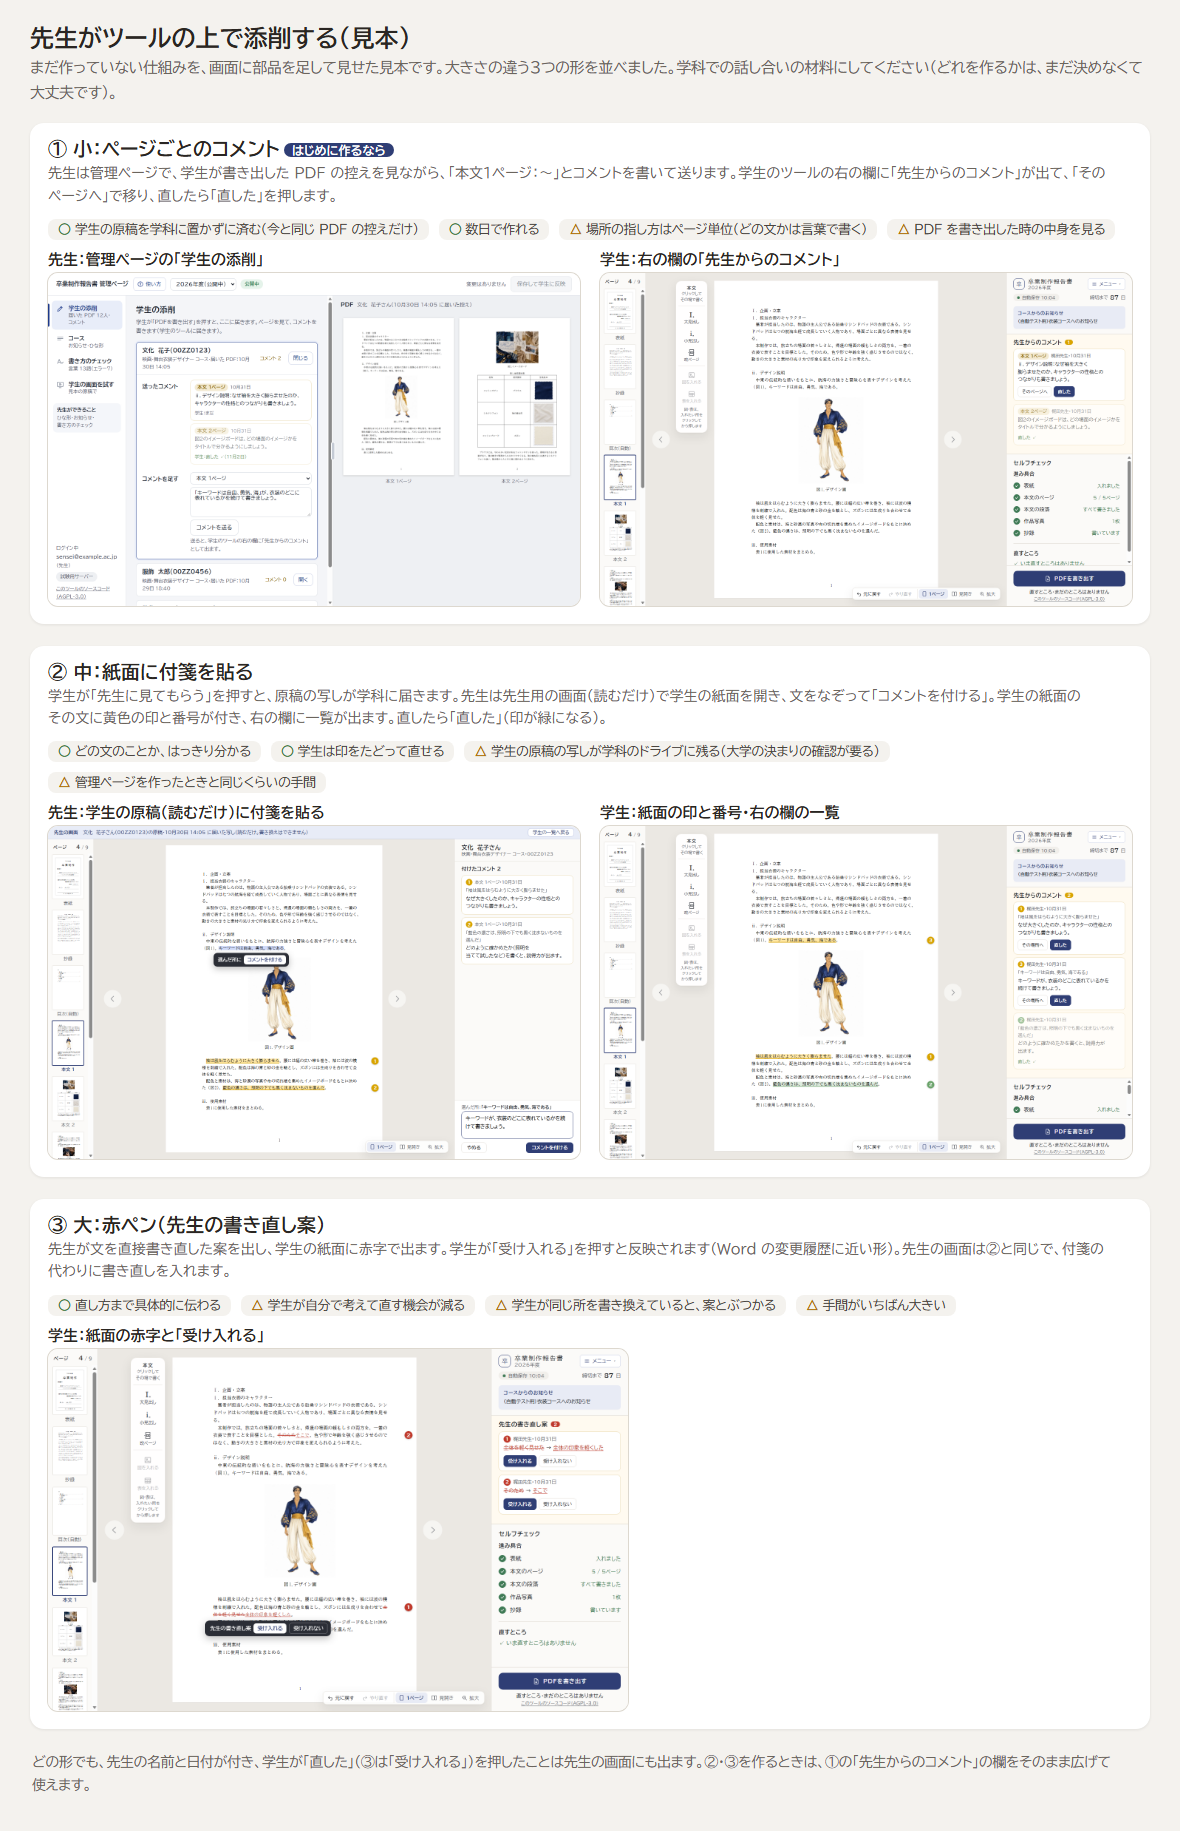
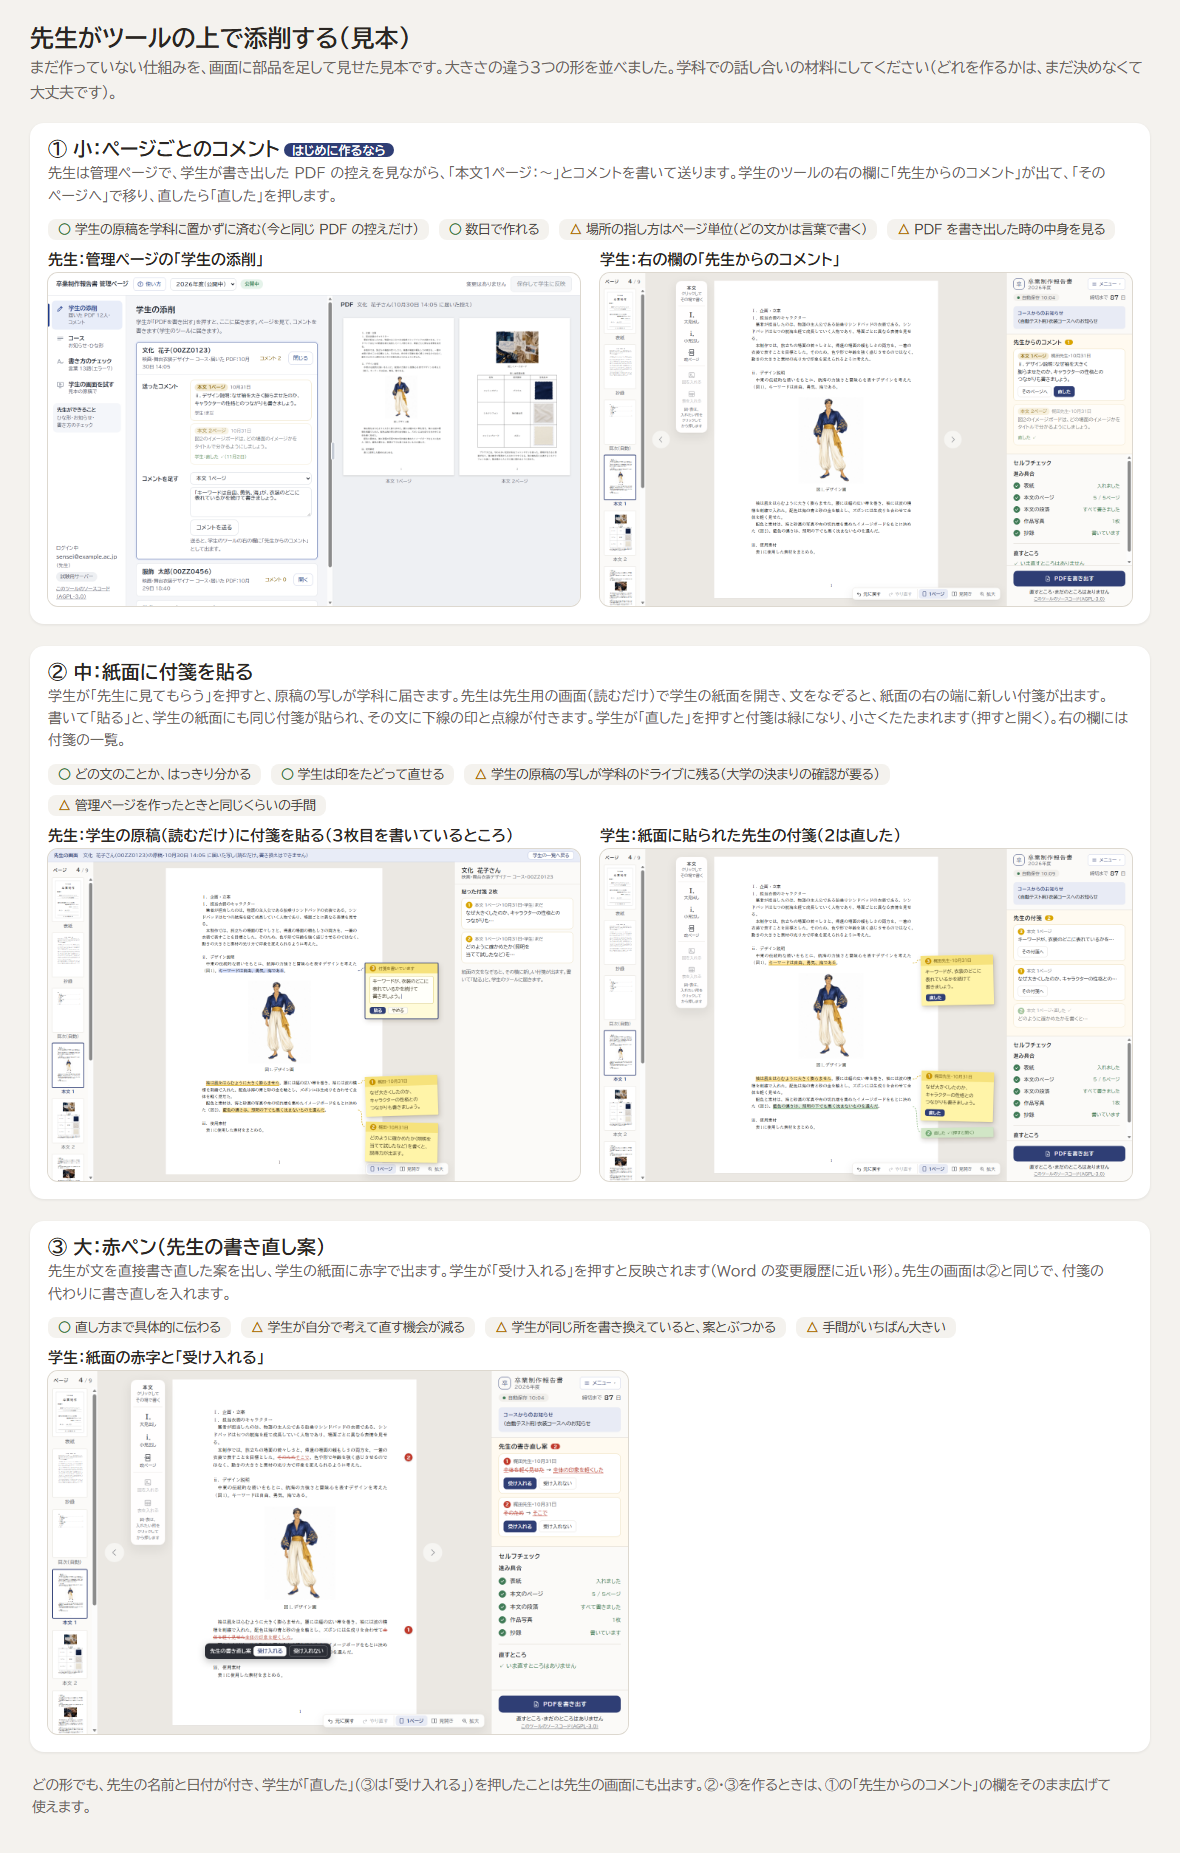
見本 v56 ②：紙面の右の端に付箋を貼る見た目にした（先生が書いている所・学生が直した付箋はたたむ）

diff --git a/mockups/v56/review.html b/mockups/v56/review.html
@@ -38,11 +38,11 @@
 
 <div class="card">
   <h2>② 中：紙面に付箋を貼る</h2>
-  <p class="why">学生が「先生に見てもらう」を押すと、原稿の写しが学科に届きます。先生は先生用の画面（読むだけ）で学生の紙面を開き、文をなぞって「コメントを付ける」。学生の紙面のその文に黄色の印と番号が付き、右の欄に一覧が出ます。直したら「直した」（印が緑になる）。</p>
+  <p class="why">学生が「先生に見てもらう」を押すと、原稿の写しが学科に届きます。先生は先生用の画面（読むだけ）で学生の紙面を開き、文をなぞると、紙面の右の端に新しい付箋が出ます。書いて「貼る」と、学生の紙面にも同じ付箋が貼られ、その文に下線の印と点線が付きます。学生が「直した」を押すと付箋は緑になり、小さくたたまれます（押すと開く）。右の欄には付箋の一覧。</p>
   <ul class="pts"><li class="good">どの文のことか、はっきり分かる</li><li class="good">学生は印をたどって直せる</li><li class="bad">学生の原稿の写しが学科のドライブに残る（大学の決まりの確認が要る）</li><li class="bad">管理ページを作ったときと同じくらいの手間</li></ul>
   <div class="opts">
-    <div class="opt"><h3>先生：学生の原稿（読むだけ）に付箋を貼る</h3><img class="shot" src="shots/2-teacher.png" alt="②先生"></div>
-    <div class="opt"><h3>学生：紙面の印と番号・右の欄の一覧</h3><img class="shot" src="shots/2-student.png" alt="②学生"></div>
+    <div class="opt"><h3>先生：学生の原稿（読むだけ）に付箋を貼る（3枚目を書いているところ）</h3><img class="shot" src="shots/2-teacher-fusen.png" alt="②先生"></div>
+    <div class="opt"><h3>学生：紙面に貼られた先生の付箋（2は直した）</h3><img class="shot" src="shots/2-student-fusen.png" alt="②学生"></div>
   </div>
 </div>
 
